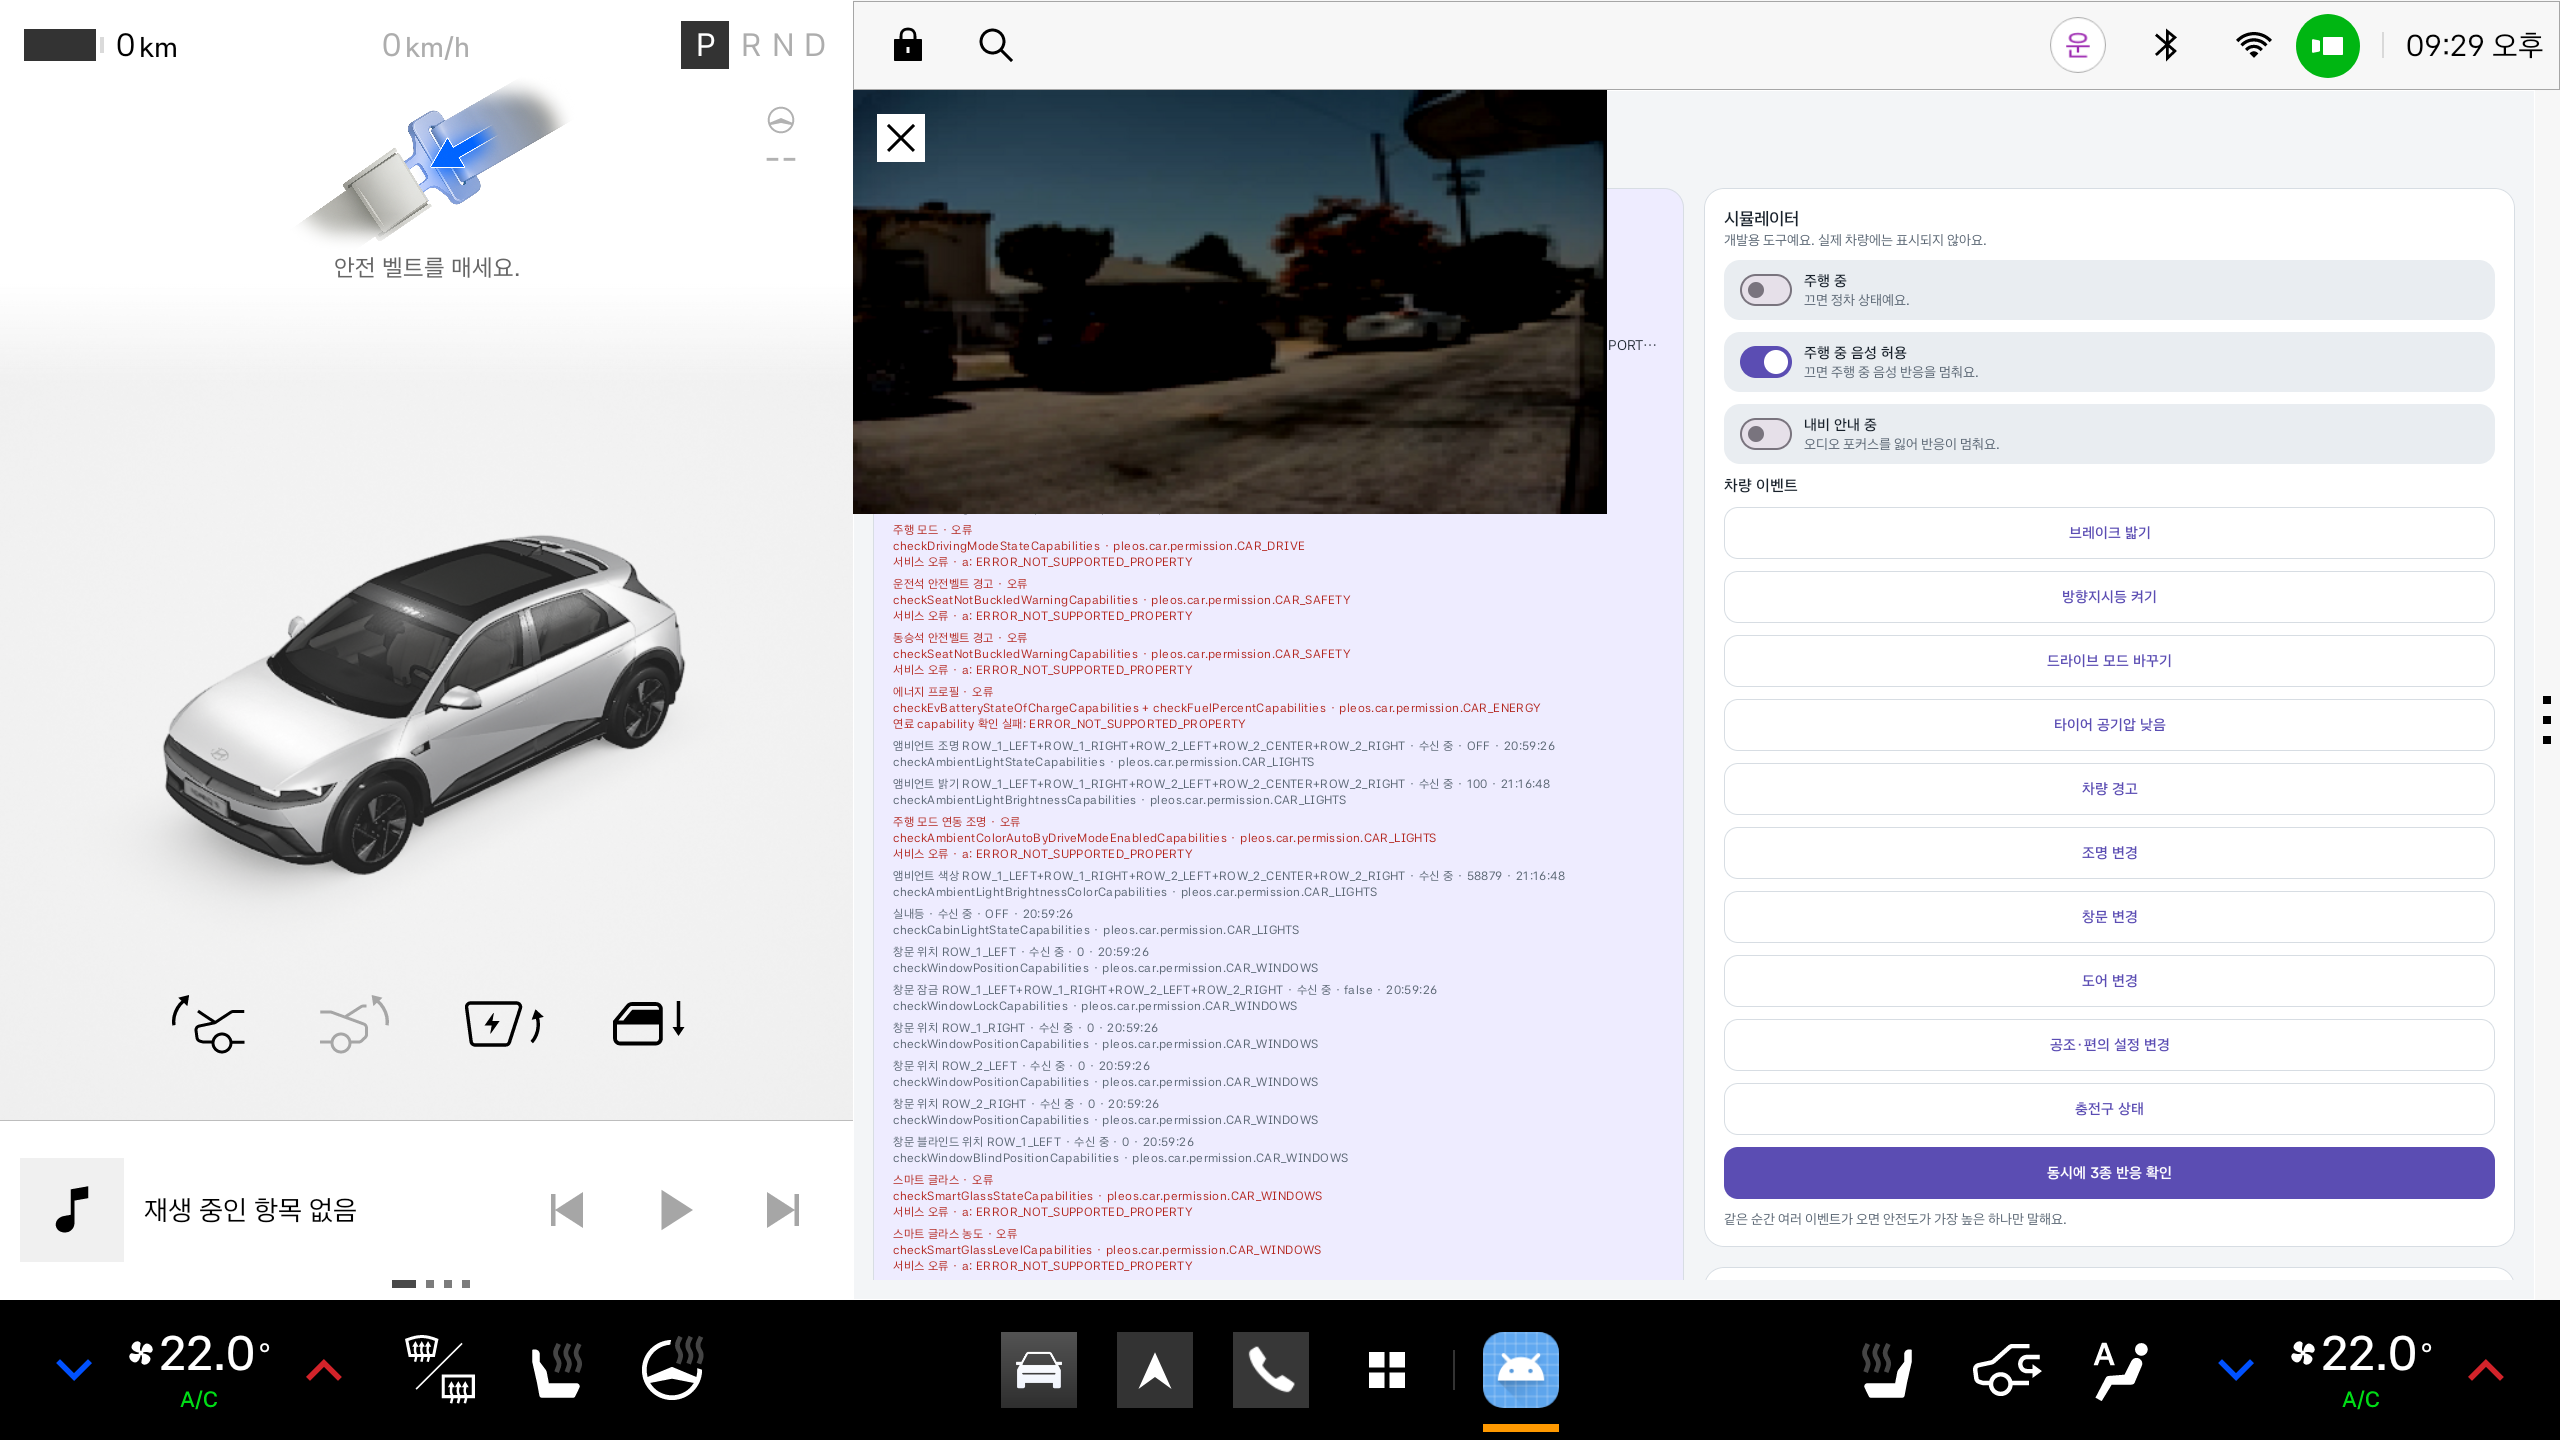
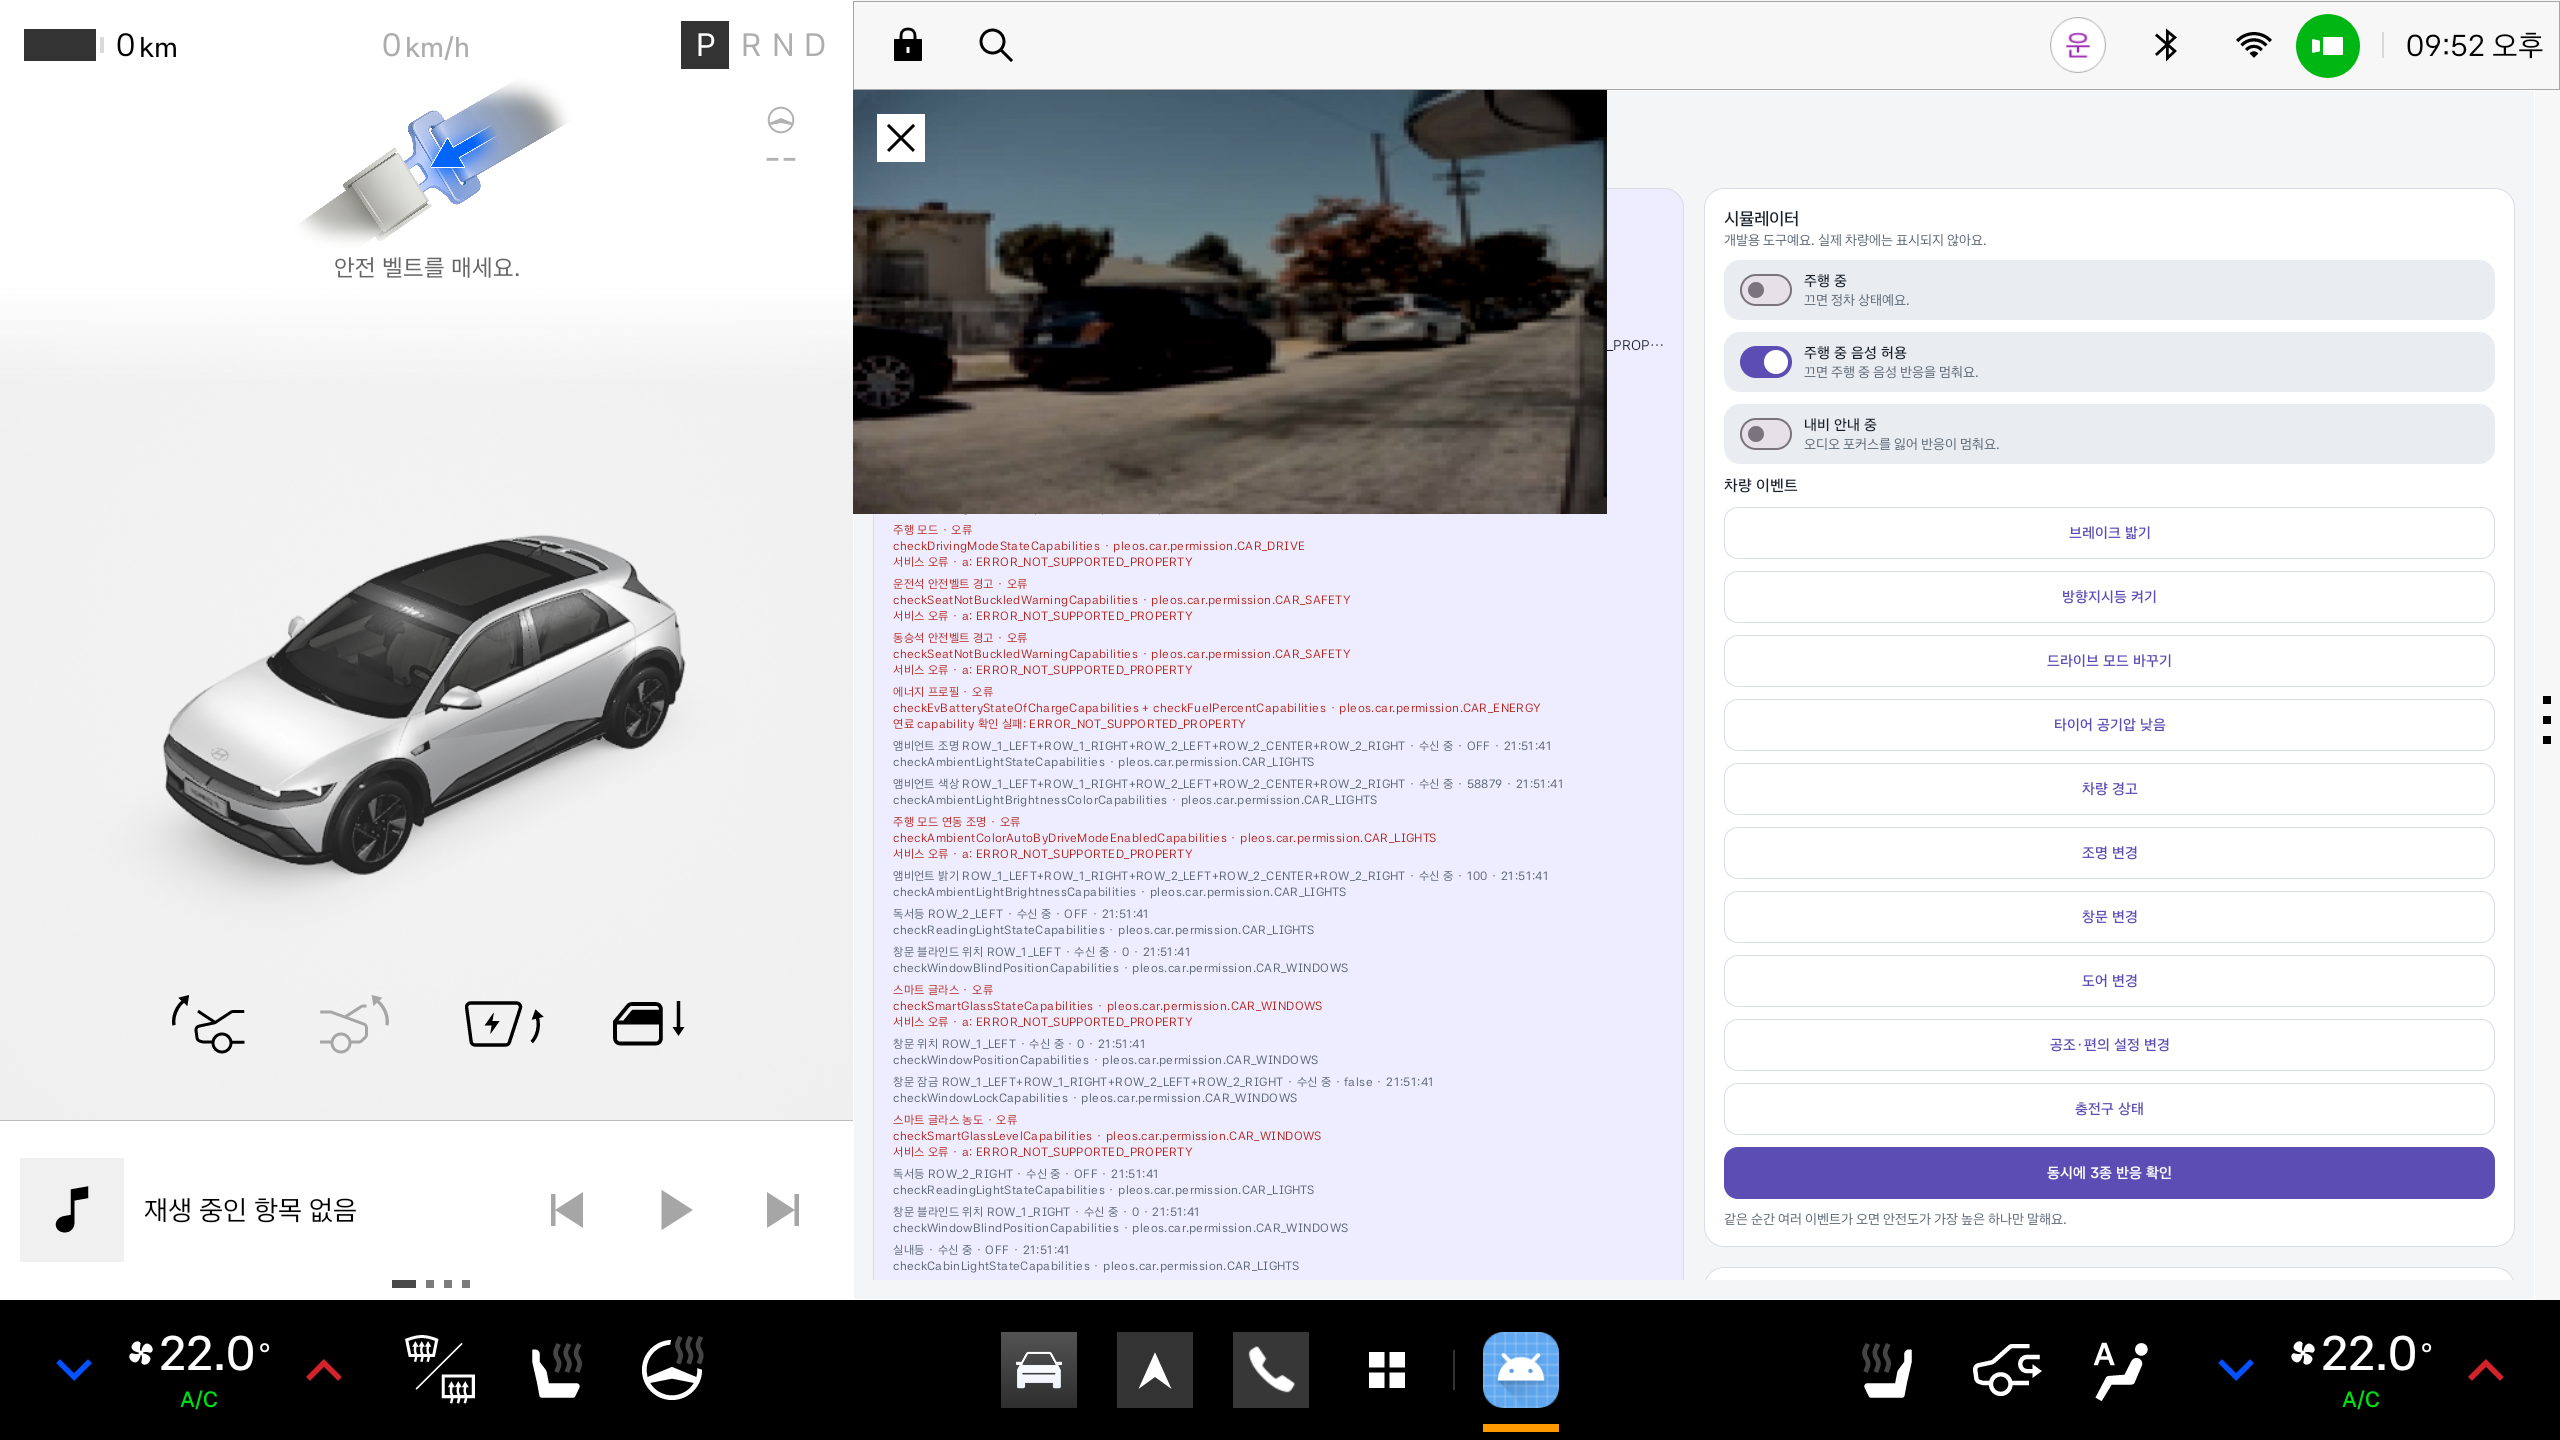
docs: record rebuilt app and event test results

diff --git a/docs/evidence/2026-11-05/README.md b/docs/evidence/2026-11-05/README.md
@@ -1,22 +1,24 @@
 # Pleos AVD and release SDK verification evidence
 
-## Real Pleos runtime smoke test
+## Fresh app build and tests
 
-- Device: Pleos Connect API 34 AVD `Pleos_Connect_API_34_v2_1`, Android user 10.
-- App: existing `com.example.voicecompanion.review` reviewDebug APK; MainActivity was active during the vehicle callback checks.
-- Brake: Virtual Console 0% → 70%; Pleos broadcasts `BRAKE_PEDAL_STATUS=true` to the app. `pleos-vhal-brake-test.png` shows the real app's Vehicle Data Debug state. Reset to 0%.
-- Turn signal: Virtual Console `Off` → `BlinkLeft`; Pleos broadcasts `TURN_SIGNAL_STATE=2` to the app. The Pleos TTS service logs the app speech text `깜빡이 켰어~`. `pleos-turn-signal-active.png` captures the active signal and Pleos camera preview; `pleos-turn-signal-test.png` captures the app after signal was reset to `Off`.
-- Both controls were returned to their idle state after capture. These checks confirm vehicle callbacks and the default TTS path only; they do not validate character-pack clip selection, approved content, or gesture playback.
+- Built runtime AARs from the checked-out voice-pack and character-pack SDK sources and published them to local Maven only. The app was then tested and built against those exact local artifacts; no package was published to GitHub Packages.
+- App: `:app:testReviewDebugUnitTest` passed, 58 tests; `:app:assembleReviewDebug` passed.
+- App test APK: `com.example.voicecompanion.review`, version name `0.1.0-review`, installed on Android user 10.
+- `pleos-voice-companion` scripts: `npm test`, 26 passed.
+- `voice-pack-sdk`: `gradlew test`, 59 Debug + 59 Release passed.
+- `character-pack-sdk`: `gradlew test`, 14 Debug + 14 Release passed.
 
-## Automated test results
+## Real Pleos vehicle-event smoke test
 
-| Project | Command | Result |
-|---|---|---|
-| pleos-voice-companion | `npm test` | 26 passed, 0 failed |
-| voice-pack-sdk | `gradlew test` | 59 Debug + 59 Release passed, 0 failed |
-| character-pack-sdk | `gradlew test` | 14 Debug + 14 Release passed, 0 failed |
+- Device: Pleos Connect API 34 AVD `Pleos_Connect_API_34_v2_1`.
+- Brake: Virtual Console 0% → 70%; Pleos broadcasts `BRAKE_PEDAL_STATUS=true` to the freshly rebuilt app and its TTS service logs `으앗!`. `pleos-vhal-brake-test.png` shows the app's Vehicle Data Debug state.
+- Turn signal: Virtual Console Off → BlinkLeft; Pleos broadcasts `TURN_SIGNAL_STATE=2` to the app and its TTS service logs `깜빡이 켰어~`. `pleos-turn-signal-active.png` shows the active indicator and camera preview; the camera preview is a Pleos platform response to the turn signal.
+- `pleos-review-debug-final.png` shows the app after reset. Gear P, brake 0%, and turn signal Off were verified after the test.
+- Raw callback/TTS excerpts are in `brake-log.txt` and `turn-signal-log.txt`.
 
-## Remaining limits
+## Scope and limits
 
-- A fresh `:app:testReviewDebugUnitTest` could not resolve private `voicepack-runtime:0.4.0` and `characterpack-runtime:0.3.0` from GitHub Packages (HTTP 401). The run used the already available reviewDebug APK.
-- Release roster, approved voice text/audio, the full 13-state playback, character-to-voice binding, and animated GLB gestures were not proven by this runtime smoke test. Keep the related issues open until the relevant approved assets and runtime checks are available.
+These AVD checks verify real VHAL callback delivery and the default Pleos TTS path. The public review APK has no approved character or voice content AAR, so this does not validate character-specific WAV playback, a populated release roster, all 13 approved clips, or GLB gesture rendering. Keep those acceptance criteria open until the release assets and rights approvals exist.
+
+GitHub Packages direct access from this workstation returns HTTP 401. The local Maven builds let the app tests and APK build run without changing repository dependencies or publishing artifacts.
